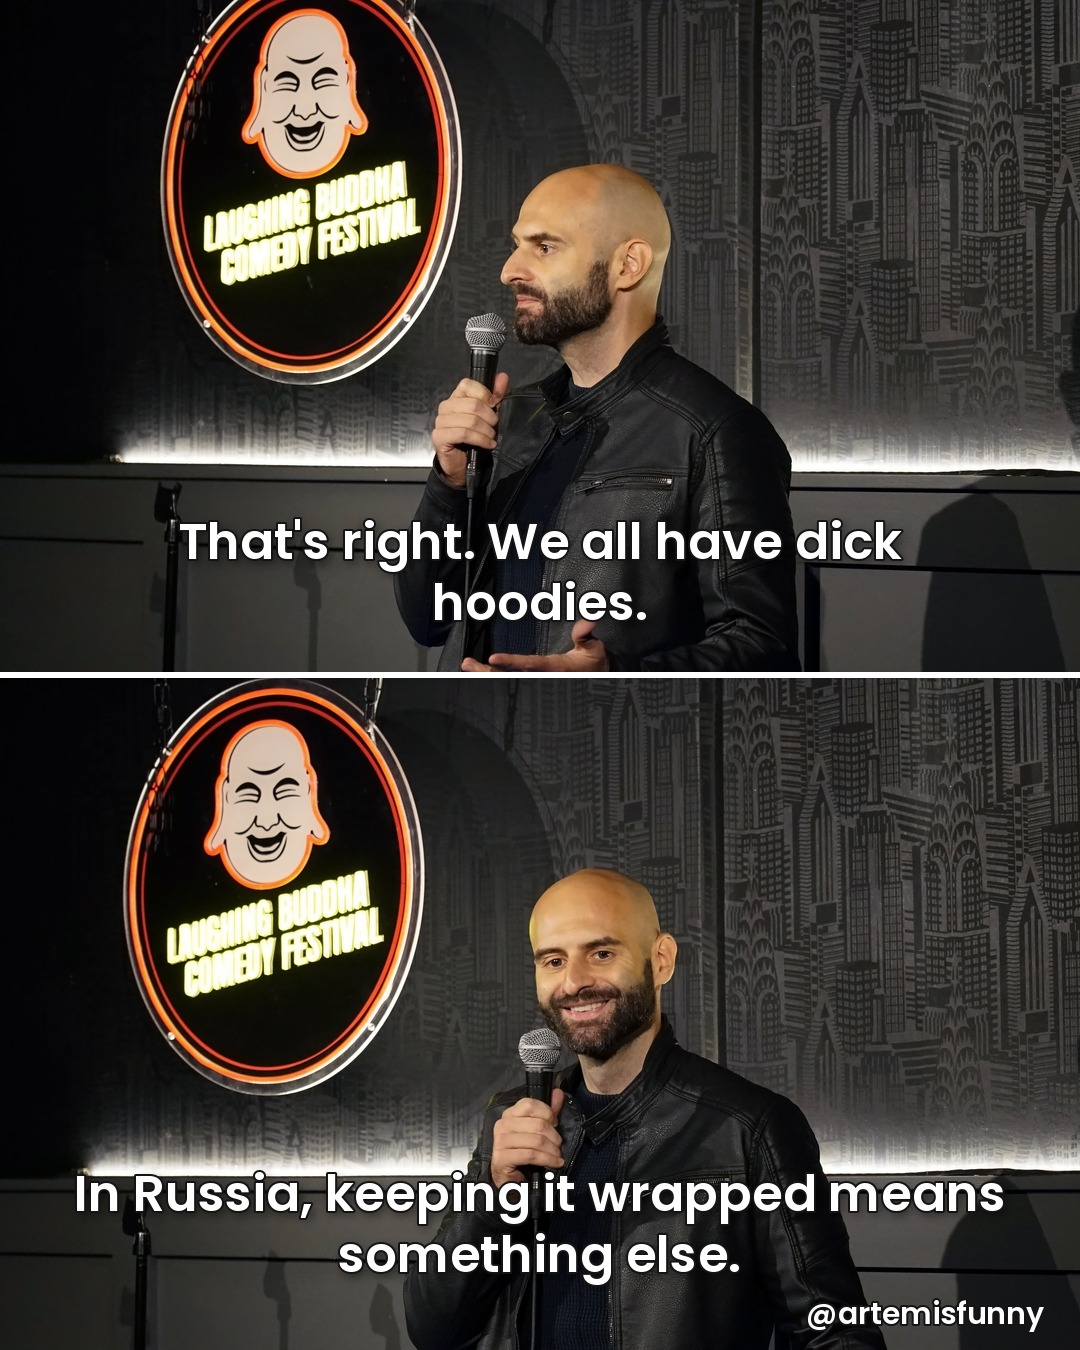
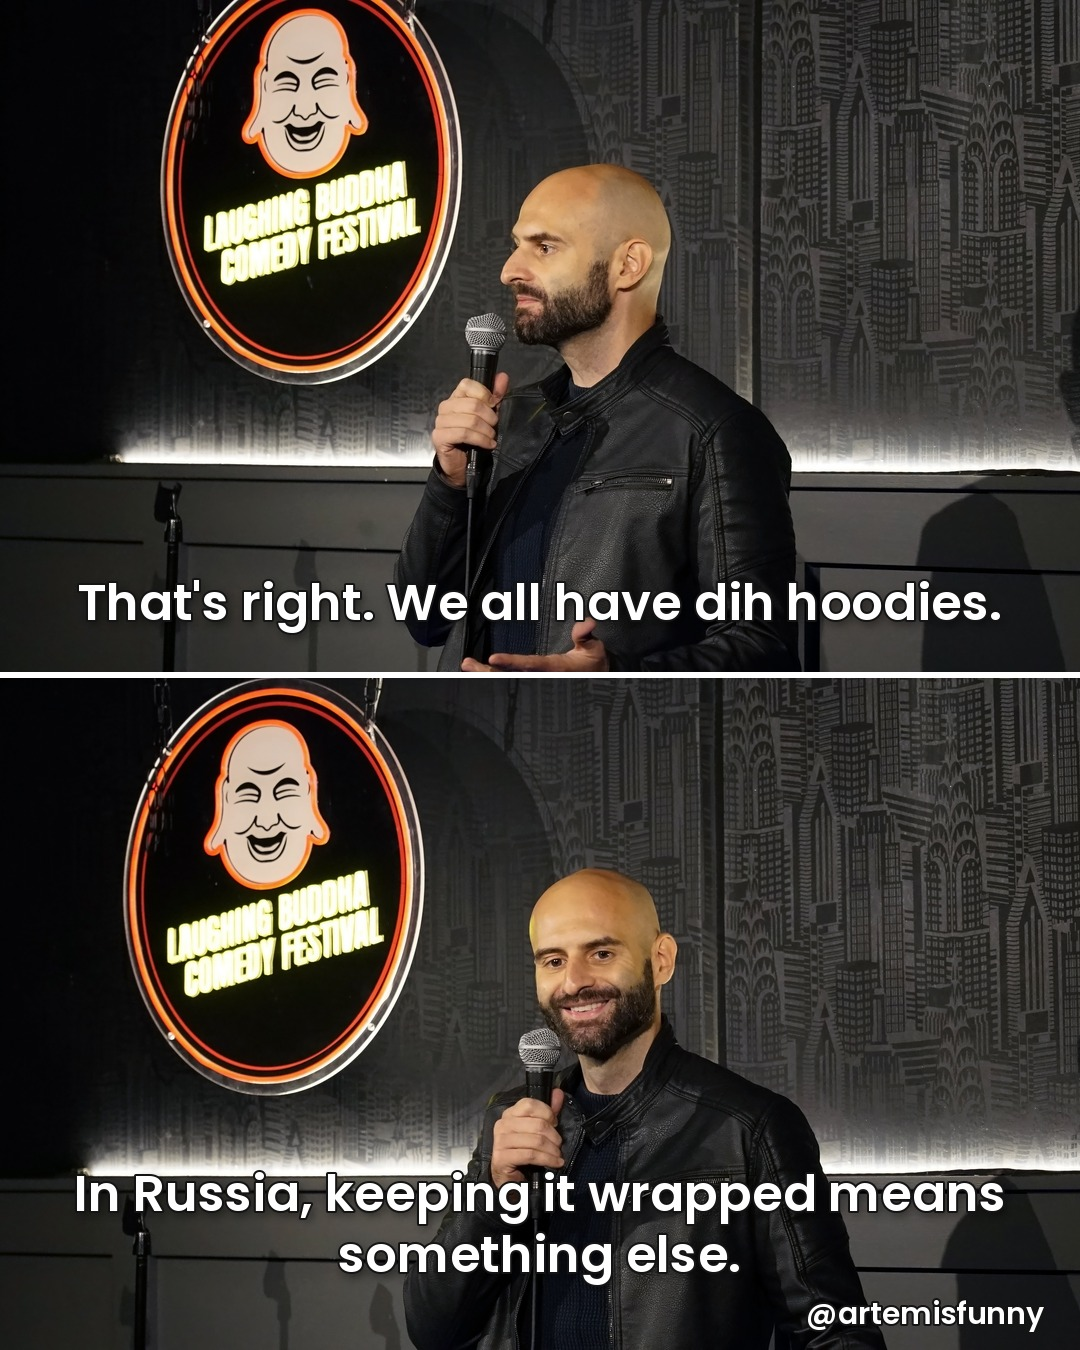
Joke carousels: algospeak swaps for words Meta flags on images
Claude-Session: https://claude.ai/code/session_01MvPkfggruUtDWhwFLapmxm

Changed region(s): [[0.0611, 0.3733, 0.9167, 0.4667]]

diff --git a/joke-carousels/split_posts.py b/joke-carousels/split_posts.py
@@ -1,6 +1,7 @@
 """Two-photo joke carousel slides. Usage: python3 split_posts.py spec.json"""
 import json
 import os
+import re
 import sys
 
 from PIL import Image, ImageDraw, ImageFilter, ImageFont, ImageOps
@@ -8,6 +9,31 @@ from PIL import Image, ImageDraw, ImageFilter, ImageFont, ImageOps
 FONT = os.path.expanduser("~/.fonts/Poppins-SemiBold.ttf")
 W, H, GAP = 1080, 1350, 6
 PANEL_H = (H - GAP) // 2
+
+# Algospeak: words that get a post held back from Explore and Reels when Meta reads them off the image
+# (profanity, sex, violence, self-harm, drugs, hate), swapped for the sound-alikes comics use.
+# Matching is whole-word and case-insensitive; a capitalised word keeps its capital.
+ALGOSPEAK = {
+    "fuck": "fug", "fucking": "fugging", "fucked": "fugged", "fucker": "fugger", "motherfucker": "motherfugger",
+    "shit": "sh!t", "shitty": "sh!tty", "bullshit": "bullsh!t",
+    "sex": "seggs", "sexy": "seggsy", "sexual": "seggsual",
+    "porn": "corn", "dick": "dih", "dicks": "dihs", "cock": "c0ck", "pussy": "p*ssy",
+    "bitch": "b!tch", "bitches": "b!tches", "whore": "h0e", "slut": "sl*t",
+    "pedophile": "PDFile", "pedophiles": "PDFiles", "pedo": "PDF", "rape": "grape", "raped": "graped",
+    "kill": "unalive", "killed": "unalived", "suicide": "unalive", "dead": "unalive",
+    "nazi": "n@zi", "nazis": "n@zis", "hitler": "H!tler", "cocaine": "coke", "heroin": "her0in",
+}
+
+
+def algospeak(text, extra=None):
+    """'so fucking cold' -> 'so fugging cold'. `extra` adds or overrides swaps from the spec."""
+    swaps = {**ALGOSPEAK, **{k.lower(): v for k, v in (extra or {}).items()}}
+
+    def swap(m):
+        word, new = m.group(0), swaps[m.group(0).lower()]
+        return new[0].upper() + new[1:] if word[0].isupper() else new
+    pattern = r"\b(" + "|".join(sorted(map(re.escape, swaps), key=len, reverse=True)) + r")\b"
+    return re.sub(pattern, swap, text, flags=re.IGNORECASE)
 
 
 def panel(path):
@@ -72,9 +98,12 @@ def main():
         spec = json.load(f)
     out = spec.get("out", "out")
     os.makedirs(out, exist_ok=True)
+    extra = spec.get("algospeak", {})
     for name, slides in spec["carousels"].items():
-        for i, slide in enumerate(slides, 1):
-            img = build(spec["photos"], spec.get("handle", "@artemisfunny"), *slide)
+        for i, (top, setup, bottom, punch) in enumerate(slides, 1):
+            if spec.get("censor", True):
+                setup, punch = algospeak(setup, extra), algospeak(punch, extra)
+            img = build(spec["photos"], spec.get("handle", "@artemisfunny"), top, setup, bottom, punch)
             img.save(os.path.join(out, f"split_{name}_{i}.jpg"), quality=92)
 
 

diff --git a/joke-carousels/captions.md b/joke-carousels/captions.md
@@ -6,6 +6,8 @@ Built with the joke-photo-carousel skill: `python3 joke-carousels/split_posts.py
 
 Wording is the Notion Joke field with "dick hoodies" (Artem, 2026-10-21) and his "keeping it wrapped" tag. The tape fix is applied: the slide break comes after "so cold in Russia", so "no one is circumcised" lands as one unit on the punch photo.
 
+Every punch sits on a smiling photo (93 or 96). On-image text uses algospeak so Meta doesn't hold the post back: "fucking" reads "fugging" and "dick hoodies" reads "dih hoodies".
+
 Caption options:
 - it was the weather
 - left for the climate
